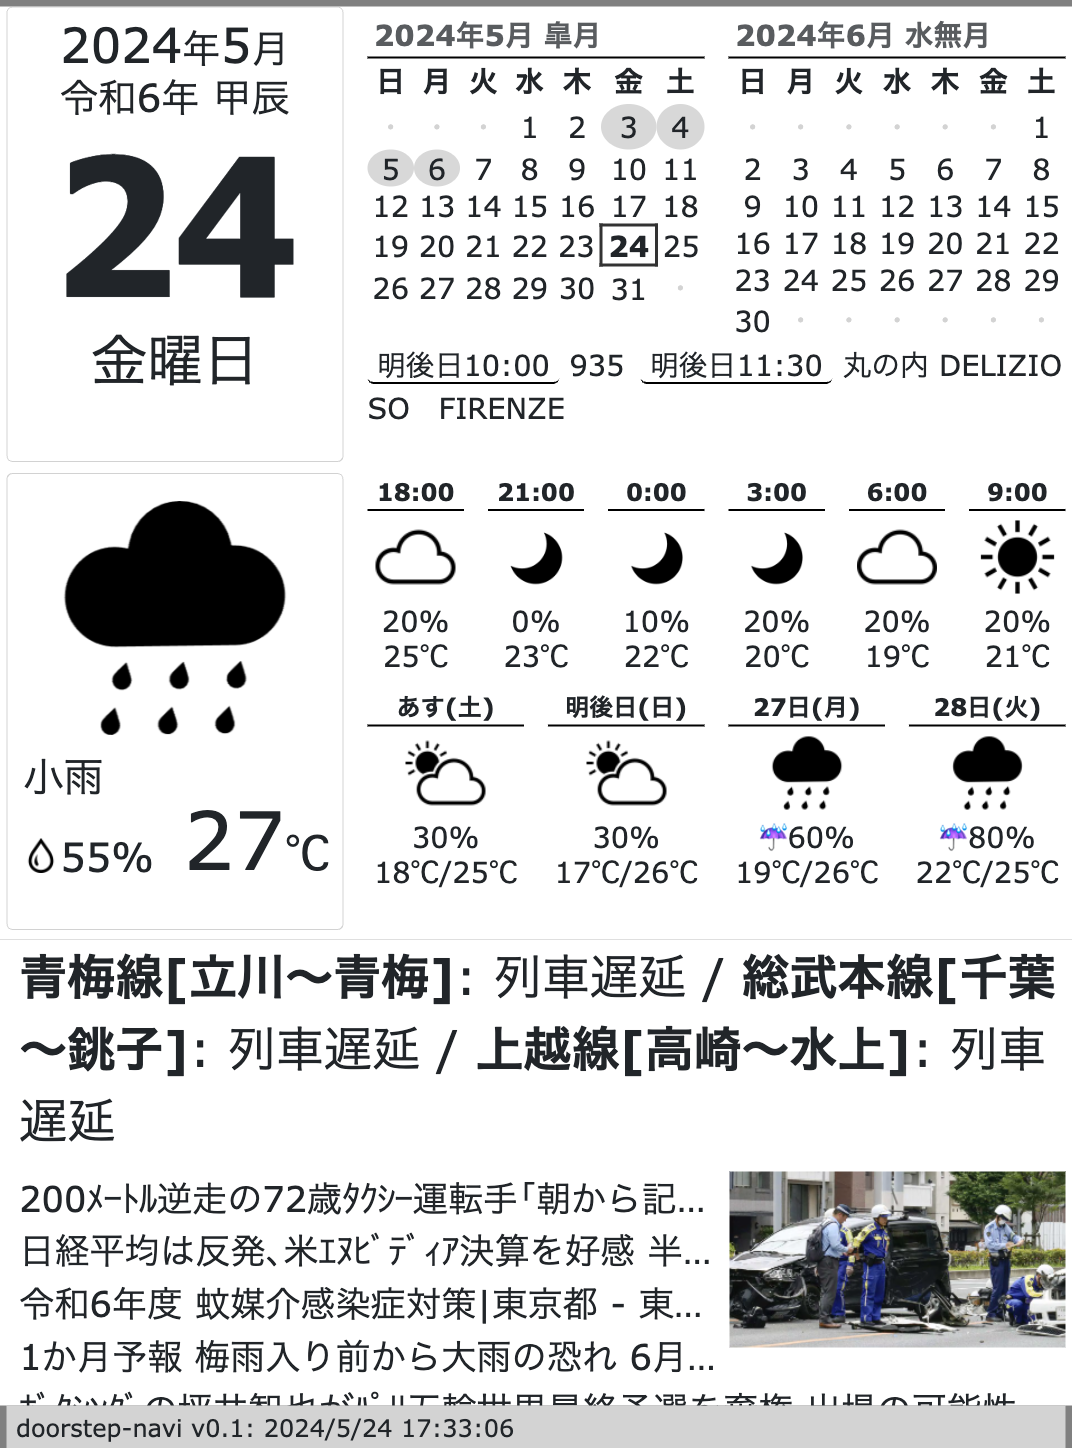
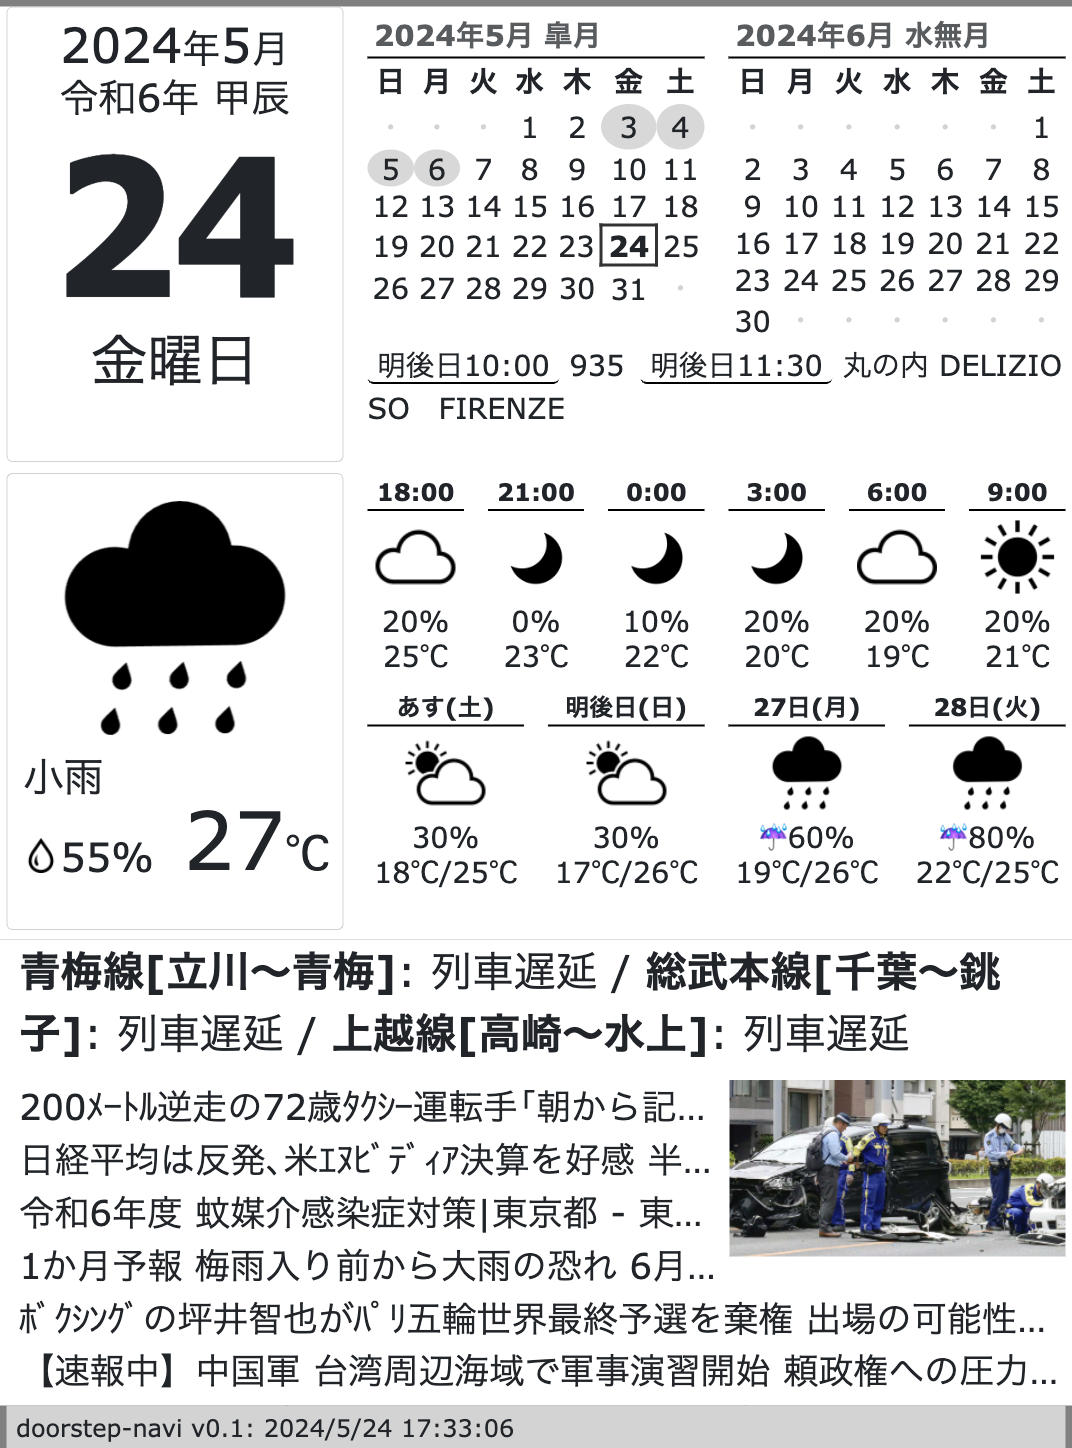
transit font small

Changed region(s): [[0.0, 0.6526, 1.0, 0.9945]]

diff --git a/public/index.html b/public/index.html
@@ -168,7 +168,7 @@
     </div>
     <div id="news" class="row">
       <div class="col">
-        <p id="transite-delayed-lines"></p>
+        <p id="transit-delayed-lines"></p>
       </div>
       <div class="col">
         <div id="news-image">

diff --git a/public/assets/css/style.css b/public/assets/css/style.css
@@ -208,8 +208,8 @@ body {
   margin-bottom: 1rem;
 }
 
-#news #transite-delayed-lines {
-  font-size: 3rem;
+#news #transit-delayed-lines {
+  font-size: 2.6rem;
   margin-left: 0.8rem;
 }
 
